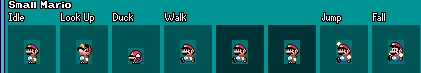
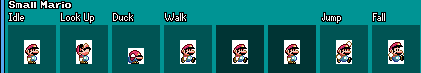
Textures and animations

diff --git a/demo/sprite_test.cpp b/demo/sprite_test.cpp
@@ -5,19 +5,31 @@
 #include "player.h"
 #include "obstacle.h"
 #include "random.hpp"
+#include "textures.h"
 
 using Random = effolkronium::random_static;
 
-std::vector<Obstacle> obstacles;
-
 int main(){
+    loadTextures();
+    sf::RectangleShape bg(sf::Vector2f(512, 432));
+    sf::Texture bgt;
+    if (!bgt.loadFromFile("../assets/bg_edited2.png")){
+        return -1;
+    }
+    bg.setTexture(&bgt);
+    bg.setScale(1.5625, 1.8519);
+    bg.setPosition(0,-120);
+
+
     sf::RenderWindow window(sf::VideoMode(800,600), "sprite_test");
 
     auto floor = sf::RectangleShape(sf::Vector2f(800, 20));
     floor.setPosition(0, 580);
-    floor.setFillColor(sf::Color::White);
+    floor.setTexture(&floor_texture);
     auto plr = Player(floor);
-    //auto obs = Obstacle();
+    std::vector<Obstacle> obstacles = {Obstacle()};
+    int max_obstacles = 1; // can be dynamic
+    int max_distance = 55; // max distance in pixels between each obstacle
 
     while(window.isOpen()) {
 
@@ -28,7 +40,7 @@ int main(){
         }
 
         // randomly spawn obstacles
-        if (Random::get(1,200) == 1){ // 200 is frequency. todo: based on score?
+        if (obstacles.size() < max_obstacles and (800 - obstacles[obstacles.size()-1].getPosition().x-15 > max_distance)){ //todo: based on score?. maximum num of obstacles
             obstacles.push_back(Obstacle());
         }
         printf("num obstacles %d\n", obstacles.size());
@@ -38,11 +50,10 @@ int main(){
 
         // simulate
         bool plrIsAlive = plr.simulate(obstacles);
-        if (!plrIsAlive)
-            window.close(); // todo: make this just kill the player instead. player array or somn
         for (auto& obs : obstacles) {
             obs.simulate();
         }
+        // animation functions
 
         // controls
         if (sf::Keyboard::isKeyPressed(sf::Keyboard::Up)){
@@ -52,17 +63,24 @@ int main(){
             plr.duck();
         }
 
-        window.draw(floor);
+
+        // drawing
+        window.draw(bg);
         window.draw(plr);
         for (auto& obs : obstacles){
             window.draw(obs);
         }
+        window.draw(floor);
 
 
 
         window.setFramerateLimit(60);
         window.display();
         window.clear();
+
+
+        if (!plrIsAlive)
+            window.close(); // todo: make this just kill the player instead. player array or somn
 
     }
 }

diff --git a/demo/textures.cpp b/demo/textures.cpp
@@ -1,0 +1,72 @@
+//
+// Created by loona on 26/10/23.
+//
+
+#include "textures.h"
+#include "stdio.h"
+
+std::vector<sf::Texture> plr_textures;
+std::vector<sf::Texture> obs_textures;
+sf::Texture floor_texture;
+
+
+void loadTextures(){
+    sf::Texture idle, lookup, duck, walk0, walk1, walk2, jump, fall;
+
+    if (!idle.loadFromFile("../assets/mario-sheet.png", sf::IntRect(24, 40, 16, 24))){
+        printf("could not load texture: idle\n");
+    }
+    plr_textures.push_back(idle);
+
+    if (!lookup.loadFromFile("../assets/mario-sheet.png", sf::IntRect(76, 40, 16, 24))){
+        printf("could not load texture: lookup\n");
+    }
+    plr_textures.push_back(lookup);
+
+    if (!duck.loadFromFile("../assets/mario-sheet.png", sf::IntRect(128, 48, 16, 16))){
+        printf("could not load texture: duck\n");
+    }
+    plr_textures.push_back(duck);
+
+    if (!walk0.loadFromFile("../assets/mario-sheet.png", sf::IntRect(180, 40, 16, 24))){
+        printf("could not load texture: walk0\n");
+    }
+    plr_textures.push_back(walk0);
+
+    if (!walk1.loadFromFile("../assets/mario-sheet.png", sf::IntRect(232, 40, 16, 24))){
+        printf("could not load texture: walk1\n");
+    }
+    plr_textures.push_back(walk1);
+
+    if (!walk2.loadFromFile("../assets/mario-sheet.png", sf::IntRect(284, 40, 16, 24))){
+        printf("could not load texture: walk2\n");
+    }
+    plr_textures.push_back(walk2);
+
+    if (!jump.loadFromFile("../assets/mario-sheet.png", sf::IntRect(336, 40, 16, 24))){
+        printf("could not load texture: jump\n");
+    }
+    plr_textures.push_back(jump);
+
+    if (!fall.loadFromFile("../assets/mario-sheet.png", sf::IntRect(388, 40, 16, 24))){
+        printf("could not load texture: fall\n");
+    }
+    plr_textures.push_back(fall);
+
+    sf::Texture pipe, bullet_bill;
+
+    if (!pipe.loadFromFile("../assets/pipe.png")){
+        printf("could not load texture: pipe\n");
+    }
+    obs_textures.push_back(pipe);
+
+    if (!bullet_bill.loadFromFile("../assets/bullet-bill.png")){
+        printf("could not load texture: bullet bill\n");
+    }
+    obs_textures.push_back(bullet_bill);
+
+    if (!floor_texture.loadFromFile("../assets/floor.png")){
+        printf("could not load texture: floor\n");
+    }
+
+}

diff --git a/demo/player.cpp b/demo/player.cpp
@@ -7,10 +7,11 @@
 
 Player::Player(sf::RectangleShape &floor)
 : floor(floor){
-    this->setFillColor(sf::Color(255,0,0));
-    //this->setScale(5,5);
-    this->setSize(sf::Vector2f(20,20));
-    this->setOrigin(0,20);
+    this->setTexture(&plr_textures[0]);
+
+    this->setScale(1.25, 1.25);
+    this->setSize(sf::Vector2f(20,30));
+    this->setOrigin(0,30);
     this->setPosition(10,580);
 
 
@@ -19,17 +20,24 @@ Player::Player(sf::RectangleShape &floor)
 }
 
 bool Player::simulate(std::vector<Obstacle> &obstacles) {
+
+    // check if ducking, if ducking, stop ducking and fix hitbox and sprite
+    if (this->isDucking){// check if key being pressed?
+        this->isDucking = false;
+        this->setSize(sf::Vector2f(20,30));
+        this->setOrigin(0,30);
+        this->setTexture(&plr_textures[0]);
+    }
+
     this->move(this->vx, this->vy); // move
     if (!this->getGlobalBounds().intersects(this->floor.getGlobalBounds())){ // if not colliding with floor
         this->vy = std::min(5.0, this->vy+0.2); //gravity
+        if (this->vy >0)
+            this->setTexture(&plr_textures[7]);
     }
     else{
         this->vy=0;
-    }
-    // check if ducking, if ducking, stop ducking and fix hitbox and sprite
-    if (this->isDucking){
-        this->isDucking = false;
-        this->setSize(sf::Vector2f(20,20));
+        this->setTexture(&plr_textures[0]);
     }
 
     // check if colliding with an obstacle, if so, delete
@@ -44,11 +52,14 @@ bool Player::simulate(std::vector<Obstacle> &obstacles) {
 void Player::jump() {
     if (this->getGlobalBounds().intersects(this->floor.getGlobalBounds())) {
         this->vy -= 5;
+        this->setTexture(&plr_textures[6]);
     }
 }
 
 void Player::duck() {
-    this->setSize(sf::Vector2f(20,10));
+    this->setSize(sf::Vector2f(20,20));
     this->isDucking = true;
+    this->setOrigin(0,13.5);
     // change sprite
+    this->setTexture(&plr_textures[2]);
 }

diff --git a/demo/obstacle.cpp b/demo/obstacle.cpp
@@ -6,7 +6,9 @@
 
 
 Obstacle::Obstacle() {
-    this->setFillColor(sf::Color::Blue);
+    //this->setFillColor(sf::Color::Blue);
+    this->setTexture(&obs_textures[0]);
+    this->setScale(2.133, 1.83);
     this->setSize(sf::Vector2f(15, 35));
     this->setOrigin(15, 0);
     this->setPosition(800, 545);

diff --git a/demo/textures.h b/demo/textures.h
@@ -1,0 +1,12 @@
+#pragma once
+
+#include "vector"
+#include "SFML/Graphics.hpp"
+
+extern std::vector<sf::Texture> plr_textures;
+
+extern std::vector<sf::Texture> obs_textures;
+
+extern sf::Texture floor_texture;
+
+void loadTextures();

diff --git a/demo/player.h b/demo/player.h
@@ -6,6 +6,7 @@
 #include "SFML/Graphics.hpp"
 #include "vector"
 #include "obstacle.h"
+#include "textures.h"
 
 
 class Player : public sf::RectangleShape {

diff --git a/demo/obstacle.h b/demo/obstacle.h
@@ -5,6 +5,7 @@
 #pragma once
 
 #include "SFML/Graphics.hpp"
+#include "textures.h"
 
 class Obstacle : public sf::RectangleShape {
 public:
